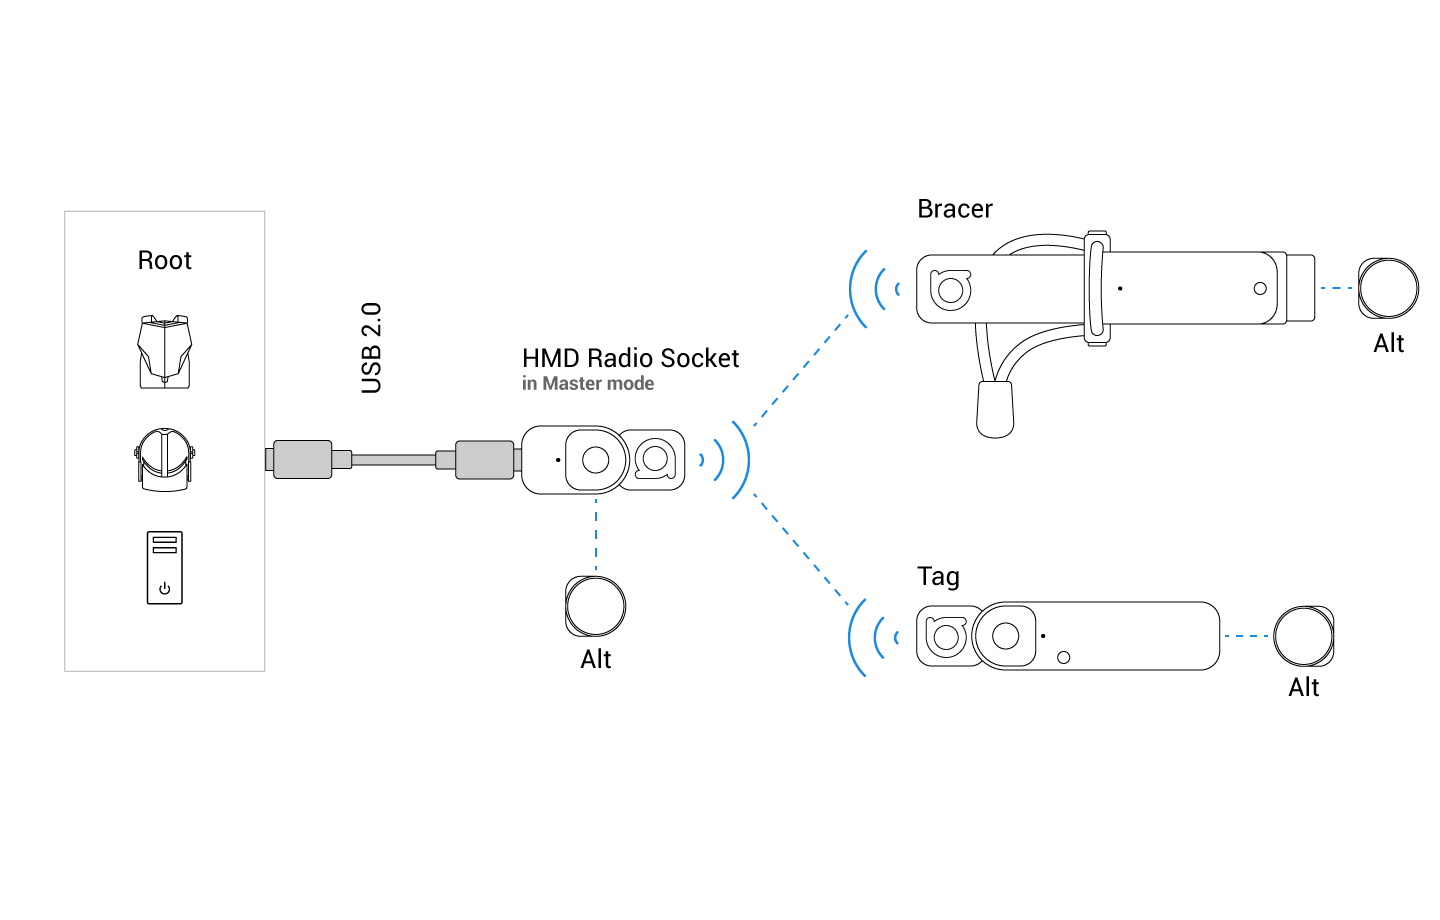
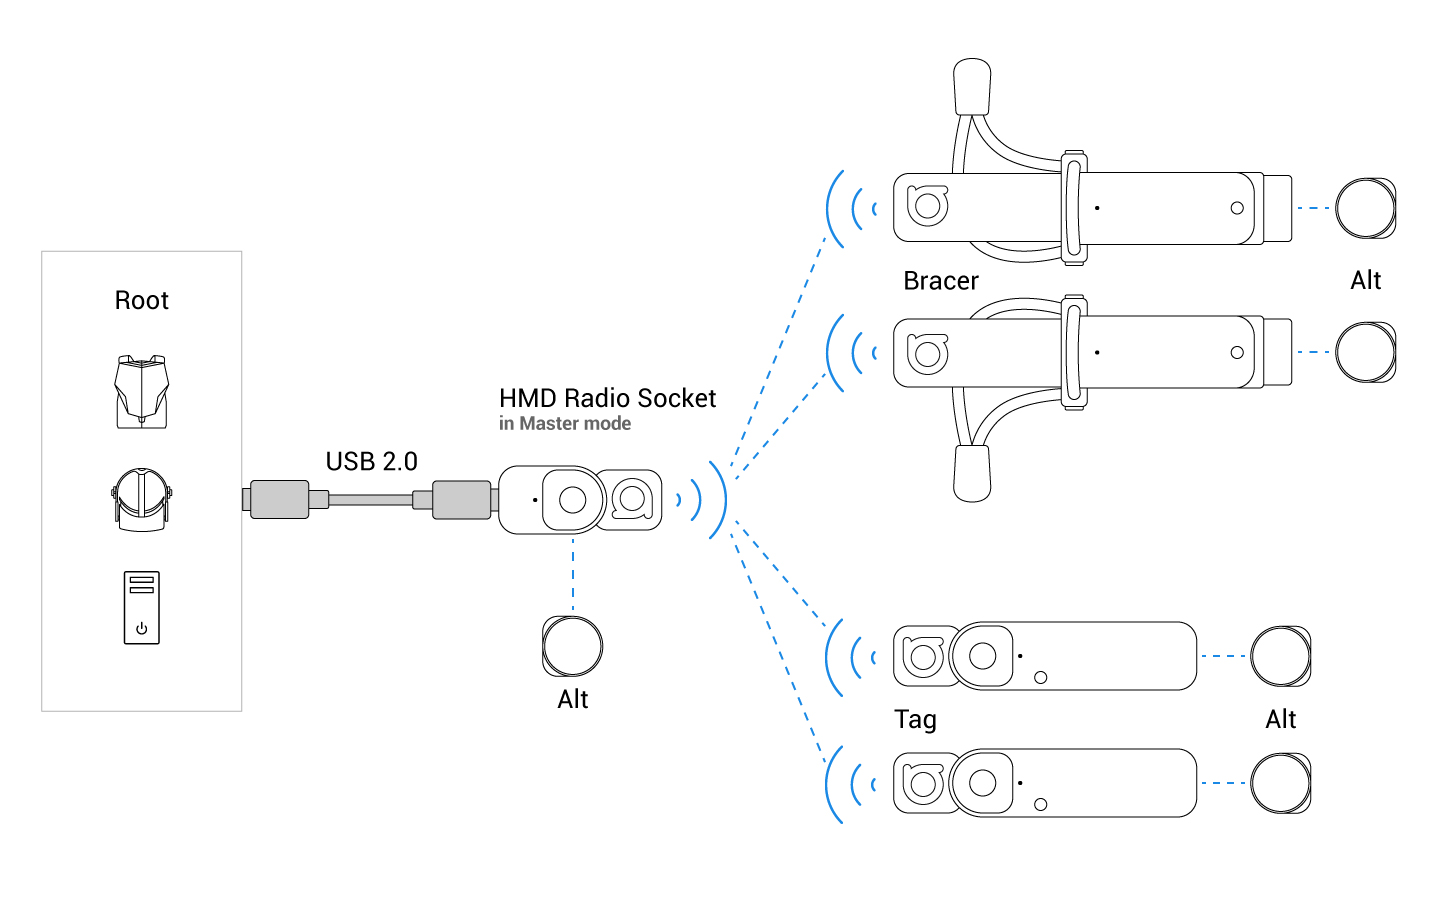
made changes in DeviceTree and DeviceProperties

diff --git a/Assets/Terms/DeviceTree/Device_Tree_ru.cs b/Assets/Terms/DeviceTree/Device_Tree_ru.cs
@@ -6,12 +6,12 @@ partial class Terms {
         [new Section("Принцип работы")
             [$"Все устройства Antilatency, подключенные к одному хосту, образуют сеть в виде дерева устройств, где корневой точкой (root) является хост, а остальные устройства образуют узлы. В каждом из узлов этого дерева может находится нода, выполняющая таск."]
             [$"Дерево устройств формирует иерархию подключения устройств и порядок передачи данных на хост."]
-            [DeviceHierarchy]
+            
         ]
 
         [new Section("Пример")
             [$"Рассмотрим дерево девайсов на примере fullbody сетапа для виртуальной реальности"]
-            [RadioScheme]
+            [DeviceHierarchy]
             [$"Мастер сокет подключается к HMD или backpack PC, в обоих случаях возможно подключение Antilatency трекера к этому сокету для отслеживания головы или любой другой части тела."]
             [$"К мастер сокету подключаются четыре сокета - два Tag и два Bracer. Эти сокеты являются передатчиками данных своих трекеров к мастер - сокету. Таким образом создается сеть, позволяющая создать fullbody трекинг на основе знания о позиции пяти точек."]
             [$"[здесь будет скрин из AntilatencyService]"]

diff --git a/Assets/Terms/DeviceProperties/Device_Properties_ru.cs b/Assets/Terms/DeviceProperties/Device_Properties_ru.cs
@@ -2,7 +2,7 @@
 using static Api.Antilatency.DeviceNetwork;
 partial class Terms {
     public static Material Device_Properties_ru => new Material(null, null,
-    $"Свойство - это единица информации, описывающая устройство, его функцию или параметры.")
+    $"Все устройства Antilatency имеют ряд свойств. Некоторые из них являются обязательными и неизменяемыми (к примеру, серийный номер), другие могут быть назначены пользователем.")
         [new Section("Работа со свойствами")
             [$"При помощи таска в {Terms.Antilatency_Device_Network_ru} у пользователя есть возможность читать и писать свойства. Каждое свойство состоит из ключа (имени) и значения. У каждого девайса есть два вида свойств: стандартные и кастомные."]
             
